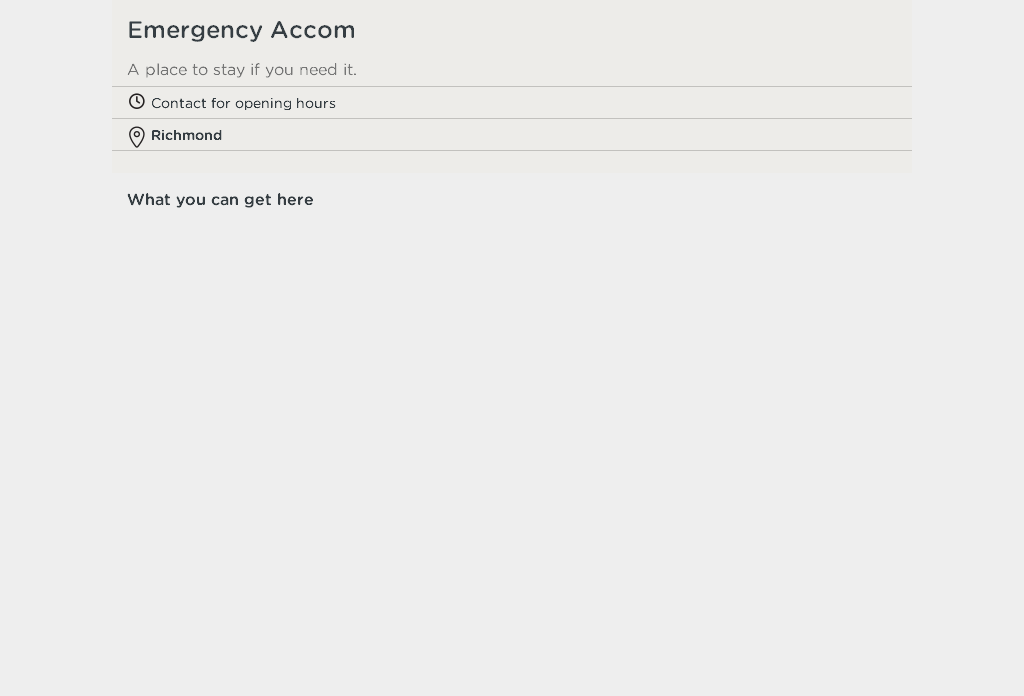
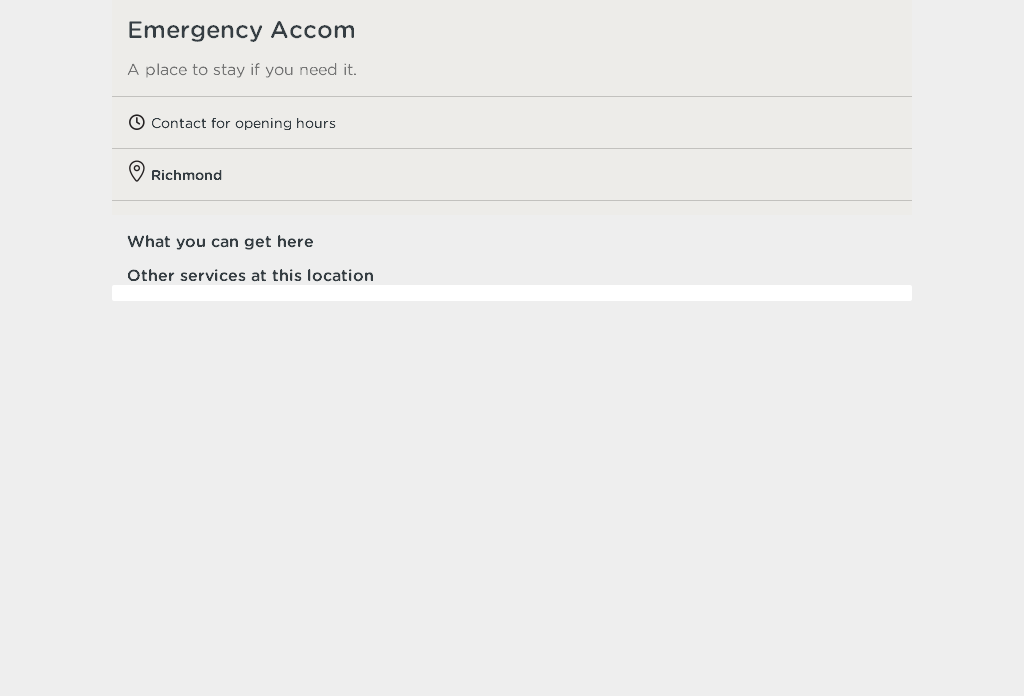
Fix spacing on service pane

Changed region(s): [[0.125, 0.1207, 0.3438, 0.3017], [0.125, 0.3922, 0.375, 0.4224], [0.125, 0.3319, 0.3125, 0.3621]]

diff --git a/src/components/ServicePane.scss b/src/components/ServicePane.scss
@@ -40,6 +40,18 @@ $padding: 15px;
     .description {
         color: $brand-text-mid;
         font-weight: 400 !important;
+        padding-bottom: 10px;
+    }
+
+    .OpeningTimes, .Address {
+        svg {
+            top: -6px !important;
+        }
+    }
+
+    .OpeningTimes, .Address, .CollapsedPhones {
+        padding-top: 10px;
+        padding-bottom: 10px;
     }
 
     .List {
